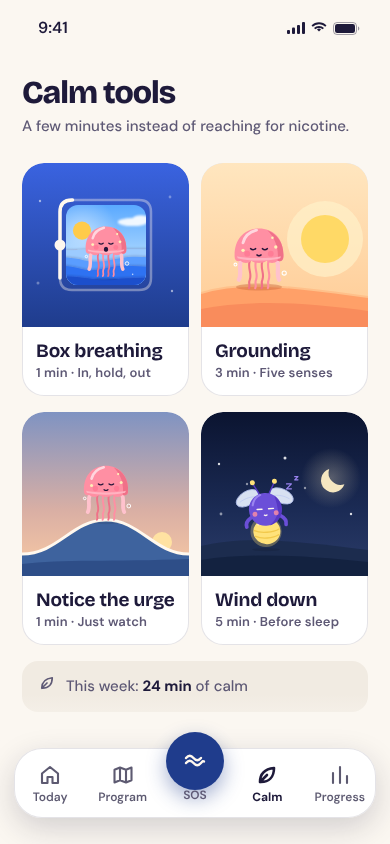
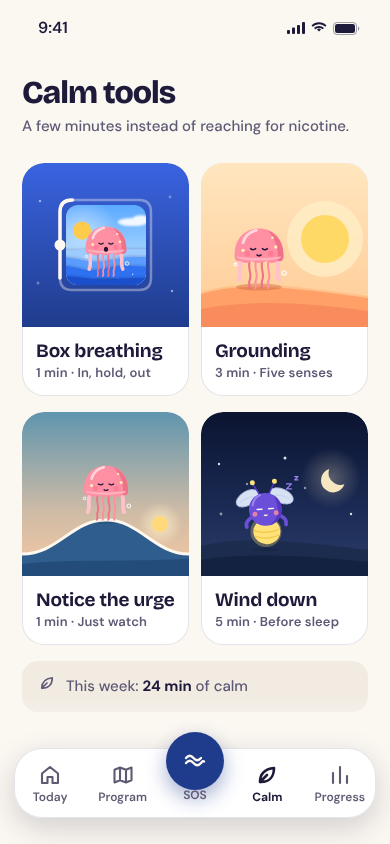
Cook: log onboarding round 10
Claude-Session: https://claude.ai/code/session_01DZ7ApmrncqosUtJWfkxY6v

Changed region(s): [[0.0615, 0.4621, 0.4923, 0.5545], [0.3692, 0.5853, 0.4615, 0.6469]]

diff --git a/cook/site/screens/059-calm-notice.html b/cook/site/screens/059-calm-notice.html
@@ -1,6 +1,6 @@
 <!doctype html><html lang="en"><head><meta charset="utf-8"><meta name="viewport" content="width=390">
 <title>059 Notice the urge</title>
-<meta name="motion" content="One painted scene: the sky and the layered sea fade in (600ms), the urge line draws edge to edge over 2.4s (a long, low swell, wider than it is tall, filled in the sea's own blue, that rises, crests and runs out to the card edges) as the swell fills in under it, then the three points and their labels fade in beside them (It rises, It peaks, It passes; It peaks sits 18px above the crest dot, the side labels sit at least 20px in from the card edges). Jelli, seated on the line (the line passes behind her tentacle tips), rides it for 12s (slow ease) up to the crest and down, settling on the calm water near the far end, 12px in from where the swell meets it; the It peaks tag fades out (700ms) as Jelli nears the crest and back in once Jelli has passed, so they never overlap, while the single 28px prompt (the only line above the scene) cross-fades every 3s (600ms): notice, it rises, the peak, watch it fall. Dark mode is the same scene at night. No springs, no haptic until It's passing is tapped (soft success haptic, goes to 060).">
+<meta name="motion" content="One painted scene: the sky and the layered sea fade in (600ms), the urge line draws edge to edge over 2.4s (a long, low swell, three times wider than it is tall, filled in the sea's own blue: a long rise from the left edge, a low crest, a shorter fall onto calm water that runs out to the right edge) as the swell fills in under it, then the three points and their labels fade in beside them (It rises, It peaks, It passes; It peaks sits 18px above the crest dot, the side labels sit at least 20px in from the card edges). Jelli, seated on the line (the line passes behind her tentacle tips), rides it for 12s (slow ease) up to the crest and down, settling on the calm water where the swell ends, 46px in from the right edge; the It peaks tag fades out (700ms) as Jelli nears the crest and back in once Jelli has passed, so they never overlap, while the single 28px prompt (the only line above the scene) cross-fades every 3s (600ms): notice, it rises, the peak, watch it fall. Dark mode is the same scene at night. No springs, no haptic until It's passing is tapped (soft success haptic, goes to 060).">
 <link rel="stylesheet" href="../kit/kit.css">
 <script src="../kit/chars.js"></script><script src="../kit/kit.js"></script>
 <style>
@@ -18,13 +18,13 @@
 .pill { height: 34px; padding: 0 12px; border-radius: 11px; background: var(--card-2); display: inline-flex; align-items: center; font: 600 15px/1 var(--body); color: var(--fg); white-space: nowrap; font-variant-numeric: tabular-nums; }
 
 .nav .title { flex: 1; text-align: center; margin-right: 56px; }
-.prompt { position: absolute; left: 28px; right: 28px; top: 138px; text-align: center; display: grid; justify-items: center; }
+.prompt { position: absolute; left: 28px; right: 28px; top: 124px; text-align: center; display: grid; justify-items: center; }
 .prompt .say { font: 800 28px/1.18 var(--display); letter-spacing: -.6px; min-height: 72px; display: grid; align-items: center; text-wrap: balance; transition: opacity .6s var(--ease), transform .6s var(--ease); }
 .prompt .say.out { opacity: 0; transform: translateY(-8px); }
-.chart { position: absolute; left: var(--gutter); right: var(--gutter); top: 246px; height: 410px; padding: 0; overflow: hidden; border-radius: 28px; box-shadow: none !important; }
+.chart { position: absolute; left: var(--gutter); right: var(--gutter); top: 232px; height: 410px; padding: 0; overflow: hidden; border-radius: 28px; box-shadow: none !important; }
 .chart svg { position: absolute; left: 0; top: 0; }
 .rider { position: absolute; left: 0; top: 0; width: 80px; height: 80px;
-  offset-path: path("M30 300 C 80 300 116 160 173 160 S 266 300 316 300"); offset-rotate: 0deg; offset-distance: var(--s, 0px); offset-anchor: 50% 93%; }
+  offset-path: path("M-6 300 C 54 300 100 200 164 200 C 226 200 256 300 300 300"); offset-rotate: 0deg; offset-distance: var(--s, 0px); offset-anchor: 50% 93%; }
 .play .rider { animation: ride 12s cubic-bezier(.4,0,.6,1) forwards; }
 @keyframes ride { from { offset-distance: var(--s, 0px); } to { offset-distance: var(--e, 100%); } }
 .still .rider { animation: none !important; offset-distance: var(--e, 100%); }
@@ -45,7 +45,7 @@
   <p class="say" id="say" data-a style="--i:2">Notice where you feel it.</p>
 </div>
 <div class="card chart" data-a style="--i:3" id="chart">
-  <div data-fade style="--d:1300ms;position:absolute;inset:0"><span class="lab r" style="left:107px;top:191px">It rises</span><span class="lab c" id="peak" style="left:173px;top:134px">It peaks</span><span class="lab" style="left:239px;top:191px">It passes</span></div>
+  <div data-fade style="--d:1300ms;position:absolute;inset:0"><span class="lab r" style="left:96px;top:211px">It rises</span><span class="lab c" id="peak" style="left:164px;top:182px">It peaks</span><span class="lab" style="left:238px;top:223px">It passes</span></div>
   <div data-fade style="--d:1200ms;position:absolute;inset:0"><span class="rider" id="rider"></span></div>
 </div>
 <div class="dock"><button class="btn" data-a style="--i:4">It's passing</button><button class="link" data-a style="--i:5">I need more help</button></div>
@@ -59,9 +59,9 @@ const C = dark
   ? { sky: ['#0E1E46', '#1E3A72'], swell: ['#2A4C92', '#203E7C'], sea: [['#2A4C92', '#203E7C'], ['#1D3870', '#16305F'], ['#132A58', '#0E2149']], crest: '#A8C2FF', line: '#FFF8EE', star: 1 }
   : { sky: ['#BFDDFF', '#EAF4FF'], swell: ['#4F93FA', '#3F84F2'], sea: [['#4F93FA', '#3F84F2'], ['#2F72F2', '#2766E0'], ['#1F55D0', '#1A4BC0']], crest: '#FFFFFF', line: '#1E1A3A', star: 0 };
 const pt = (x, y) => `<circle cx="${x}" cy="${y}" r="6.5" fill="${C.line}" stroke="${dark ? '#26457F' : '#FFF8EE'}" stroke-width="3"/>`;
-/* The urge line: a long, low swell in the sea's own blue (wide, with a low crest, so it reads as water, not a chart); it runs out flat to both card edges. */
-const R = 'M30 300 C 80 300 116 160 173 160 S 266 300 316 300';
-const U = 'M-6 302 C 8 302 18 300 30 300 C 80 300 116 160 173 160 S 266 300 316 300 C 328 300 338 302 352 302';
+/* The urge line: a long, low swell in the sea's own blue (a long rise from the left edge, a low crest, a shorter fall onto calm water), so it reads as water, not a chart. */
+const R = 'M-6 300 C 54 300 100 200 164 200 C 226 200 256 300 300 300';
+const U = R + ' C 320 300 336 301 352 301';
 const band = (d, i) => `<path d="${d} V410 H-10Z" fill="url(#ksea${i})"/><path d="${d}" fill="none" stroke="${C.crest}" stroke-opacity="${dark ? .16 : .28}" stroke-width="2"/>`;
 document.getElementById('chart').insertAdjacentHTML('afterbegin', `<svg width="346" height="410" viewBox="0 0 346 410" aria-hidden="true"><defs>
   <linearGradient id="ksky" x1="0" y1="0" x2="0" y2="1"><stop offset="0" stop-color="${C.sky[0]}"/><stop offset="1" stop-color="${C.sky[1]}"/></linearGradient>
@@ -73,7 +73,7 @@ document.getElementById('chart').insertAdjacentHTML('afterbegin', `<svg width="3
     : '<g fill="#fff" opacity=".9"><ellipse cx="282" cy="56" rx="30" ry="10"/><ellipse cx="268" cy="49" rx="15" ry="11"/></g><g fill="#fff" opacity=".7" filter="url(#kblur)"><ellipse cx="62" cy="112" rx="28" ry="8"/><ellipse cx="74" cy="105" rx="14" ry="9"/><ellipse cx="52" cy="108" rx="10" ry="7"/></g>'}
   <path d="${U} V410 H-10Z" fill="url(#kswl)" data-fade style="--d:900ms"/>
   <path d="${U}" fill="none" stroke="${C.line}" stroke-width="4" stroke-linecap="round" pathLength="100" class="draw" style="--len:100;--dur:2400ms;--d:300ms"/>
-  <g data-fade style="--d:1300ms">${pt(119.4, 199.4)}${pt(173, 160)}${pt(226.6, 199.4)}</g>
+  <g data-fade style="--d:1300ms">${pt(108, 223.4)}${pt(164, 200)}${pt(226, 235.2)}</g>
   <g data-fade style="--d:600ms">
     ${band('M-10 322 C 50 308 110 312 170 322 C 240 334 300 314 356 310', 0)}
     ${band('M-10 352 C 60 340 120 342 190 354 C 260 366 310 346 356 342', 1)}
@@ -81,7 +81,7 @@ document.getElementById('chart').insertAdjacentHTML('afterbegin', `<svg width="3
   </g></svg>`);
 const rider = document.getElementById('rider');
 rider.innerHTML = DX.char('jelli', { mood: 'calm', size: 80 });
-/* Jelli rides the swell from x 44 to x 300 (12px in from where the line meets the calm water): find those lengths on the path. */
+/* Jelli rides the swell from x 44 to x 300, where it meets the calm water: find those lengths on the path. */
 { const pe = document.createElementNS('http://www.w3.org/2000/svg', 'path'); pe.setAttribute('d', R); const L = pe.getTotalLength();
   const at = x => { let lo = 0, hi = L; for (let k = 0; k < 30; k++) { const m = (lo + hi) / 2; if (pe.getPointAtLength(m).x < x) lo = m; else hi = m; } return lo; };
   rider.style.setProperty('--s', at(44).toFixed(1) + 'px'); rider.style.setProperty('--e', at(300).toFixed(1) + 'px'); }

diff --git a/cook/site/screens/056-calm.html b/cook/site/screens/056-calm.html
@@ -1,6 +1,6 @@
 <!doctype html><html lang="en"><head><meta charset="utf-8"><meta name="viewport" content="width=390">
 <title>056 Calm tools</title>
-<meta name="motion" content="The title arrives, then the four tool tiles on the 90ms stagger (left to right, top to bottom); each cast member settles into its own little scene 120ms after its tile (Jelli in the box window, Jelli seated on the dawn hill over her contact shadow, Jelli seated on the crest of the long low swell, Glim on the night hill). Each tile has its own palette (ocean blue, apricot dawn, dusk sea with the sun setting behind the swell, midnight); dark mode keeps them (ocean blue, warm pre-dawn, night dusk, midnight). The quiet This week row, in its own soft container, fades in last and its 24 counts up from 0 (850ms). Ambient: in the box tile the dot walks the track at the breathing pace (16s a round) and the lit side steps along with it at each corner; the cast keep their own idle loops (Jelli breathes in the window, Jelli floats on the hill and on the swell, Glim dozes with drifting zzz). Light tap haptic on tile press. Craving SOS stays one tap away in the tab bar.">
+<meta name="motion" content="The title arrives, then the four tool tiles on the 90ms stagger (left to right, top to bottom); each cast member settles into its own little scene 120ms after its tile (Jelli in the box window, Jelli seated on the dawn hill over her contact shadow, Jelli seated on the crest of the long low swell, Glim on the night hill). Each tile has its own palette (ocean blue, apricot dawn, dusk sea with a low sun beside the swell, midnight); dark mode keeps them (ocean blue, warm pre-dawn, night dusk, midnight). The quiet This week row, in its own soft container, fades in last and its 24 counts up from 0 (850ms). Ambient: in the box tile the dot walks the track at the breathing pace (16s a round) and the lit side steps along with it at each corner; the cast keep their own idle loops (Jelli breathes in the window, Jelli floats on the hill and on the swell, Glim dozes with drifting zzz). Light tap haptic on tile press. Craving SOS stays one tap away in the tab bar.">
 <link rel="stylesheet" href="../kit/kit.css">
 <script src="../kit/chars.js"></script><script src="../kit/kit.js"></script>
 <style>
@@ -97,17 +97,17 @@ $('#a-ground').innerHTML = svg(dark
      <ellipse cx="58" cy="92" rx="23" ry="3.6" fill="#B8532C" opacity=".32"/>`, 32)
   + who(DX.char('jelli', { mood: 'calm', size: 84 }).replace('fill="#000000" opacity="0.08"', 'fill="#000000" opacity="0"'), 16, dark ? 49 : 47, 520);
 
-/* Notice the urge: a dusk sea (dusty blue sky to a warm horizon, the sun setting behind a long low swell), so it is not the Box blue; Jelli sits on the crest. */
+/* Notice the urge: a dusk sea (sea-blue sky warming to the horizon, a low sun beside a long low swell in deep dusk blue), so it is not the Box blue; Jelli sits on the crest. */
 const SW = 'M0 110 C36 110 50 76 84 76 S 132 110 167 110';
 $('#a-urge').innerHTML = svg(dark
-  ? `<defs>${grad('sd', '#0F1A38', '#2B3A64', '#6E5560')}</defs>${bg(32, 'url(#sd)')}${stars([[20, 18], [44, 40], [150, 16, 1.4], [128, 44]], .6)}
-     <circle cx="140" cy="98" r="10" fill="#FFC27A"/>
-     <path d="${SW} V132 H0Z" fill="#2B4A86"/><path d="${SW}" fill="none" stroke="#FFF8EE" stroke-width="3" stroke-linecap="round"/>
-     <path d="M0 120 C40 115 90 118 167 115 V132 H0Z" fill="#1C3566"/>`
-  : `<defs>${grad('sl', '#7F93C2', '#D9AFA4', '#FBCBA4')}</defs>${bg(32, 'url(#sl)')}
-     <circle cx="140" cy="98" r="10" fill="#FFE2A2"/>
-     <path d="${SW} V132 H0Z" fill="#3E639E"/><path d="${SW}" fill="none" stroke="#FFF8EE" stroke-width="3" stroke-linecap="round"/>
-     <path d="M0 120 C40 115 90 118 167 115 V132 H0Z" fill="#2E4E88"/>`, 32)
+  ? `<defs>${grad('sd', '#0C1C30', '#1F3D55', '#6A5548')}<radialGradient id="sg"><stop offset="0" stop-color="#FFC27A" stop-opacity=".45"/><stop offset="1" stop-color="#FFC27A" stop-opacity="0"/></radialGradient></defs>${bg(32, 'url(#sd)')}${stars([[20, 18], [44, 40], [150, 16, 1.4], [128, 44]], .6)}
+     <circle cx="138" cy="80" r="22" fill="url(#sg)"/><circle cx="138" cy="80" r="8" fill="#FFC27A"/>
+     <path d="${SW} V132 H0Z" fill="#244A72"/><path d="${SW}" fill="none" stroke="#FFF8EE" stroke-width="3" stroke-linecap="round"/>
+     <path d="M0 120 C40 115 90 118 167 115 V132 H0Z" fill="#183656"/>`
+  : `<defs>${grad('sl', '#5F95AE', '#CDBBA6', '#F8C9A2')}<radialGradient id="sg"><stop offset="0" stop-color="#FFF1C9" stop-opacity=".8"/><stop offset="1" stop-color="#FFF1C9" stop-opacity="0"/></radialGradient></defs>${bg(32, 'url(#sl)')}
+     <circle cx="138" cy="80" r="22" fill="url(#sg)"/><circle cx="138" cy="80" r="8" fill="#FFD97A"/>
+     <path d="${SW} V132 H0Z" fill="#2F5E8E"/><path d="${SW}" fill="none" stroke="#FFF8EE" stroke-width="3" stroke-linecap="round"/>
+     <path d="M0 120 C40 115 90 118 167 115 V132 H0Z" fill="#244C7A"/>`, 32)
   + who(DX.char('jelli', { mood: 'calm', size: 76 }), 46, 37, 620);
 
 /* Wind down: night blue with the moon, Glim settling on the hill. */

diff --git a/cook/site/screens/058-calm-grounding.html b/cook/site/screens/058-calm-grounding.html
@@ -6,13 +6,13 @@
 <style>
 .nav .steps { flex: 1; margin-right: 56px; }
 .lead { position: absolute; left: var(--gutter); right: var(--gutter); top: 118px; }
-.jel { position: absolute; left: 50%; top: 182px; margin-left: -88px; width: 176px; height: 176px; z-index: 2; }
-/* Jelli's tentacle tips meet the card's top edge (y 345); her contact shadow lies on the card just under the edge, clear of the border line. */
-.cur { position: absolute; left: var(--gutter); right: var(--gutter); top: 345px; padding: 46px 22px 28px; display: grid; gap: 12px; text-align: center; justify-items: center; }
+.jel { position: absolute; left: 50%; top: 175px; margin-left: -88px; width: 176px; height: 176px; z-index: 2; }
+/* Jelli's tentacle tips meet the card's top edge (y 338); her contact shadow lies on the card just under the edge, clear of the border line. */
+.cur { position: absolute; left: var(--gutter); right: var(--gutter); top: 338px; padding: 46px 22px 28px; display: grid; gap: 12px; text-align: center; justify-items: center; }
 .seat { position: absolute; left: 50%; top: 1px; width: 120px; height: 14px; margin-left: -60px; background: radial-gradient(50% 100% at 50% 0, var(--shd), transparent); pointer-events: none; transform-origin: 50% 0; }
 .screen { --shd: rgba(30,26,58,.2); }
 [data-theme="dark"] .screen { --shd: rgba(2,4,12,.95); }
-[data-theme="dark"] .seat { height: 16px; }
+[data-theme="dark"] .seat { height: 18px; }
 .play .seat { animation: seat 5s ease-in-out infinite; }
 @keyframes seat { 50% { transform: scaleX(.82); opacity: .55; } }
 .still .seat { animation: none !important; }

diff --git a/cook/site/screens/061-settings-settings.html b/cook/site/screens/061-settings-settings.html
@@ -25,8 +25,8 @@
 .prof .grow { flex: 1; min-width: 0; }
 .prof .medal .badge { gap: 3px; }
 .prof .medal .t-cap { color: var(--fg); font-weight: 700; }
-.sec { padding: 12px 4px 6px; font-size: 14px; font-weight: 600; }
-.list > .row { min-height: 47px; padding-top: 5px; padding-bottom: 5px; }
+.sec { padding: 10px 4px 6px; font-size: 14px; font-weight: 600; }
+.list > .row { min-height: 45px; padding-top: 4px; padding-bottom: 4px; }
 .ico-tile.s { width: 32px; height: 32px; }
 .hd { padding-top: 0; }
 /* The value sits 6px from its chevron, so a long value keeps clear air from its label. */

diff --git a/cook/ROUNDS.md b/cook/ROUNDS.md
@@ -172,3 +172,4 @@ session 023-032, lesson-log 033-042, slips-checkin 043-055.
 - Session round 10 (on r8): Opus 8.6 / Sonnet 8.8 (r8 8.7 / 8.7): mixed, kept (carries the 027/030 content fix). 032 at 9.1, 028 and 031 at 9.0 (Sonnet).
 - Today-SOS-Program round 10 (022 only): Opus 8.5 / Sonnet 8.7 (r8 8.8 / 8.8): lower on both, 022 reverted to round 8 (r10 file kept in scratchpad).
 - Lesson-log round 9: Opus 8.5 / Sonnet 8.6 (r8 8.7 / 8.8): lower on both, reverted to round 8 (e8f2d70).
+- Onboarding round 10 (horizon strip, on r8): Opus 8.3 / Sonnet 8.7 (r8 8.6 / 8.7): not lower on both, kept. Opus wants varied, larger cast poses on the strip and warmer dark selection.
